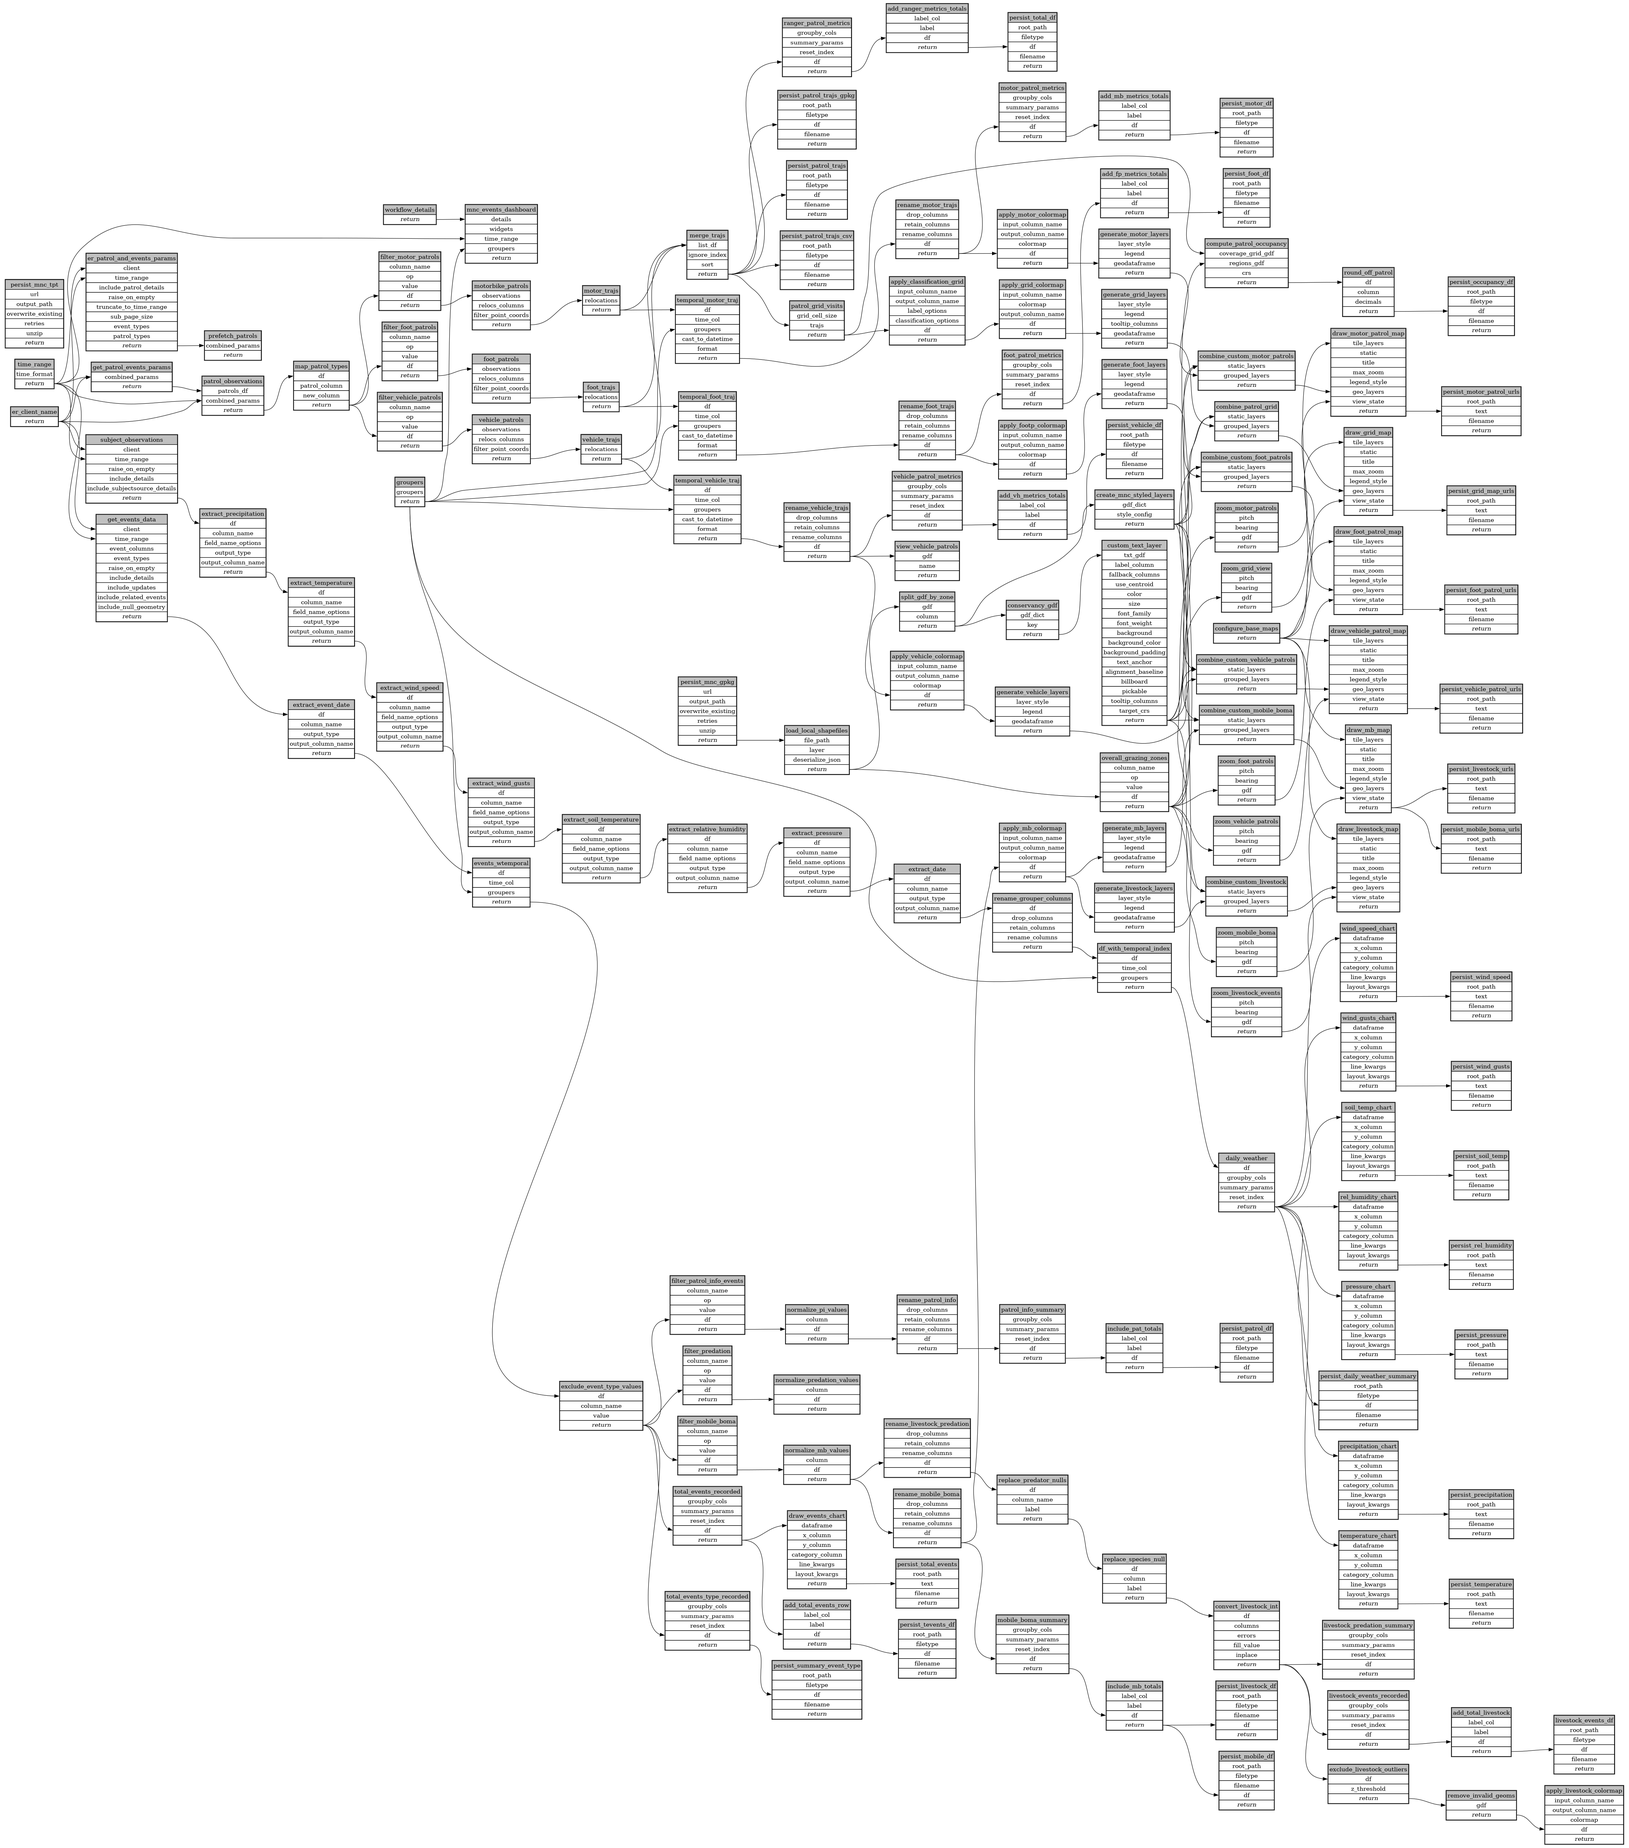
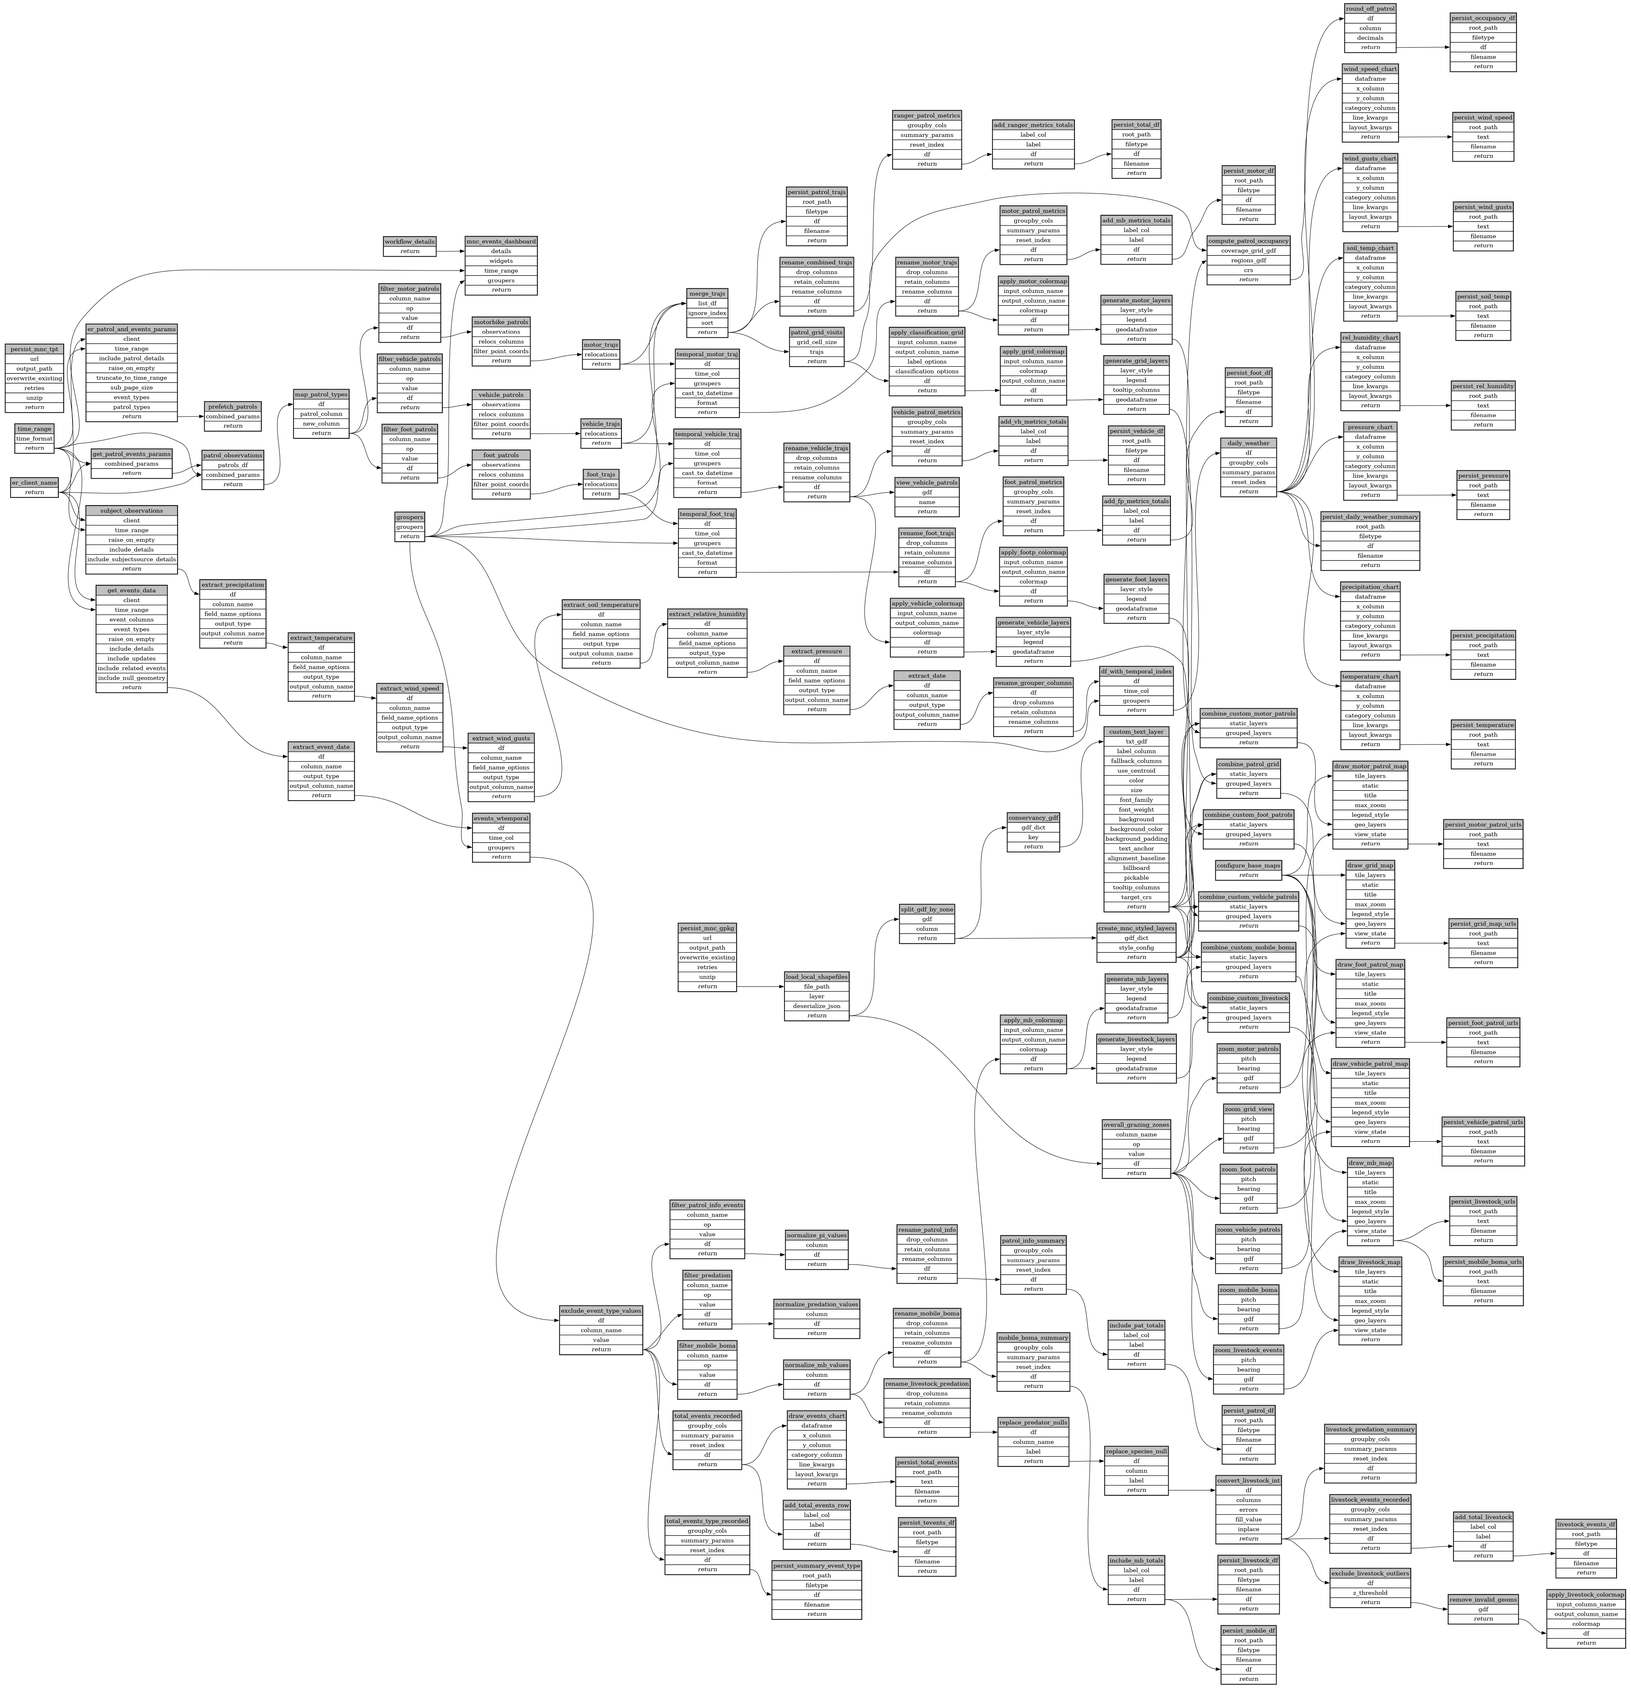
rename combined traj columns

diff --git a/workflows/mara_north_event_report/ecoscope-workflows-mara-north-event-report-workflow/ecoscope_workflows_mara_north_event_report_workflow/dags/run_async.py b/workflows/mara_north_event_report/ecoscope-workflows-mara-north-event-report-workflow/ecoscope_workflows_mara_north_event_report_workflow/dags/run_async.py
@@ -207,10 +207,9 @@ def main(params: Params):
         ],
         "persist_motor_patrol_urls": ["draw_motor_patrol_map"],
         "merge_trajs": ["foot_trajs", "vehicle_trajs", "motor_trajs"],
-        "persist_patrol_trajs_gpkg": ["merge_trajs"],
         "persist_patrol_trajs": ["merge_trajs"],
-        "persist_patrol_trajs_csv": ["merge_trajs"],
-        "ranger_patrol_metrics": ["merge_trajs"],
+        "rename_combined_trajs": ["merge_trajs"],
+        "ranger_patrol_metrics": ["rename_combined_trajs"],
         "add_ranger_metrics_totals": ["ranger_patrol_metrics"],
         "persist_total_df": ["add_ranger_metrics_totals"],
         "patrol_grid_visits": ["merge_trajs"],
@@ -2321,19 +2320,6 @@ def main(params: Params):
             | (params_dict.get("merge_trajs") or {}),
             method="call",
         ),
-        "persist_patrol_trajs_gpkg": Node(
-            async_task=persist_df.validate()
-            .handle_errors(task_instance_id="persist_patrol_trajs_gpkg")
-            .set_executor("lithops"),
-            partial={
-                "root_path": os.environ["ECOSCOPE_WORKFLOWS_RESULTS"],
-                "filetype": "gpkg",
-                "df": DependsOn("merge_trajs"),
-                "filename": "trajectories",
-            }
-            | (params_dict.get("persist_patrol_trajs_gpkg") or {}),
-            method="call",
-        ),
         "persist_patrol_trajs": Node(
             async_task=persist_df.validate()
             .handle_errors(task_instance_id="persist_patrol_trajs")
@@ -2347,17 +2333,28 @@ def main(params: Params):
             | (params_dict.get("persist_patrol_trajs") or {}),
             method="call",
         ),
-        "persist_patrol_trajs_csv": Node(
-            async_task=persist_df.validate()
-            .handle_errors(task_instance_id="persist_patrol_trajs_csv")
+        "rename_combined_trajs": Node(
+            async_task=map_columns.validate()
+            .handle_errors(task_instance_id="rename_combined_trajs")
             .set_executor("lithops"),
             partial={
-                "root_path": os.environ["ECOSCOPE_WORKFLOWS_RESULTS"],
-                "filetype": "csv",
+                "drop_columns": ["heading", "extra__created_at", "extra__id"],
+                "retain_columns": [],
+                "rename_columns": {
+                    "extra__patrol_start_time": "patrol_start_time",
+                    "extra__patrol_end_time": "patrol_end_time",
+                    "extra__patrol_id": "patrol_id",
+                    "extra__patrol_serial_number": "patrol_serial_number",
+                    "extra__patrol_status": "patrol_status",
+                    "extra__patrol_subject": "patrol_subject_name",
+                    "extra__patrol_title": "patrol_title",
+                    "extra__patrol_type": "patrol_type_id",
+                    "extra__patrol_type__value": "patrol_type_value",
+                    "extra__subject_id": "subject_id",
+                },
                 "df": DependsOn("merge_trajs"),
-                "filename": "trajectories",
             }
-            | (params_dict.get("persist_patrol_trajs_csv") or {}),
+            | (params_dict.get("rename_combined_trajs") or {}),
             method="call",
         ),
         "ranger_patrol_metrics": Node(
@@ -2388,7 +2385,7 @@ def main(params: Params):
                     },
                 ],
                 "reset_index": True,
-                "df": DependsOn("merge_trajs"),
+                "df": DependsOn("rename_combined_trajs"),
             }
             | (params_dict.get("ranger_patrol_metrics") or {}),
             method="call",

diff --git a/workflows/mara_north_event_report/ecoscope-workflows-mara-north-event-report-workflow/ecoscope_workflows_mara_north_event_report_workflow/dags/run_async_mock_io.py b/workflows/mara_north_event_report/ecoscope-workflows-mara-north-event-report-workflow/ecoscope_workflows_mara_north_event_report_workflow/dags/run_async_mock_io.py
@@ -253,10 +253,9 @@ def main(params: Params):
         ],
         "persist_motor_patrol_urls": ["draw_motor_patrol_map"],
         "merge_trajs": ["foot_trajs", "vehicle_trajs", "motor_trajs"],
-        "persist_patrol_trajs_gpkg": ["merge_trajs"],
         "persist_patrol_trajs": ["merge_trajs"],
-        "persist_patrol_trajs_csv": ["merge_trajs"],
-        "ranger_patrol_metrics": ["merge_trajs"],
+        "rename_combined_trajs": ["merge_trajs"],
+        "ranger_patrol_metrics": ["rename_combined_trajs"],
         "add_ranger_metrics_totals": ["ranger_patrol_metrics"],
         "persist_total_df": ["add_ranger_metrics_totals"],
         "patrol_grid_visits": ["merge_trajs"],
@@ -2367,19 +2366,6 @@ def main(params: Params):
             | (params_dict.get("merge_trajs") or {}),
             method="call",
         ),
-        "persist_patrol_trajs_gpkg": Node(
-            async_task=persist_df.validate()
-            .handle_errors(task_instance_id="persist_patrol_trajs_gpkg")
-            .set_executor("lithops"),
-            partial={
-                "root_path": os.environ["ECOSCOPE_WORKFLOWS_RESULTS"],
-                "filetype": "gpkg",
-                "df": DependsOn("merge_trajs"),
-                "filename": "trajectories",
-            }
-            | (params_dict.get("persist_patrol_trajs_gpkg") or {}),
-            method="call",
-        ),
         "persist_patrol_trajs": Node(
             async_task=persist_df.validate()
             .handle_errors(task_instance_id="persist_patrol_trajs")
@@ -2393,17 +2379,28 @@ def main(params: Params):
             | (params_dict.get("persist_patrol_trajs") or {}),
             method="call",
         ),
-        "persist_patrol_trajs_csv": Node(
-            async_task=persist_df.validate()
-            .handle_errors(task_instance_id="persist_patrol_trajs_csv")
+        "rename_combined_trajs": Node(
+            async_task=map_columns.validate()
+            .handle_errors(task_instance_id="rename_combined_trajs")
             .set_executor("lithops"),
             partial={
-                "root_path": os.environ["ECOSCOPE_WORKFLOWS_RESULTS"],
-                "filetype": "csv",
+                "drop_columns": ["heading", "extra__created_at", "extra__id"],
+                "retain_columns": [],
+                "rename_columns": {
+                    "extra__patrol_start_time": "patrol_start_time",
+                    "extra__patrol_end_time": "patrol_end_time",
+                    "extra__patrol_id": "patrol_id",
+                    "extra__patrol_serial_number": "patrol_serial_number",
+                    "extra__patrol_status": "patrol_status",
+                    "extra__patrol_subject": "patrol_subject_name",
+                    "extra__patrol_title": "patrol_title",
+                    "extra__patrol_type": "patrol_type_id",
+                    "extra__patrol_type__value": "patrol_type_value",
+                    "extra__subject_id": "subject_id",
+                },
                 "df": DependsOn("merge_trajs"),
-                "filename": "trajectories",
             }
-            | (params_dict.get("persist_patrol_trajs_csv") or {}),
+            | (params_dict.get("rename_combined_trajs") or {}),
             method="call",
         ),
         "ranger_patrol_metrics": Node(
@@ -2434,7 +2431,7 @@ def main(params: Params):
                     },
                 ],
                 "reset_index": True,
-                "df": DependsOn("merge_trajs"),
+                "df": DependsOn("rename_combined_trajs"),
             }
             | (params_dict.get("ranger_patrol_metrics") or {}),
             method="call",

diff --git a/workflows/mara_north_event_report/ecoscope-workflows-mara-north-event-report-workflow/ecoscope_workflows_mara_north_event_report_workflow/dags/run_sequential.py b/workflows/mara_north_event_report/ecoscope-workflows-mara-north-event-report-workflow/ecoscope_workflows_mara_north_event_report_workflow/dags/run_sequential.py
@@ -2069,19 +2069,6 @@ def main(params: Params):
         .call()
     )
 
-    persist_patrol_trajs_gpkg = (
-        persist_df.validate()
-        .handle_errors(task_instance_id="persist_patrol_trajs_gpkg")
-        .partial(
-            root_path=os.environ["ECOSCOPE_WORKFLOWS_RESULTS"],
-            filetype="gpkg",
-            df=merge_trajs,
-            filename="trajectories",
-            **(params_dict.get("persist_patrol_trajs_gpkg") or {}),
-        )
-        .call()
-    )
-
     persist_patrol_trajs = (
         persist_df.validate()
         .handle_errors(task_instance_id="persist_patrol_trajs")
@@ -2095,15 +2082,26 @@ def main(params: Params):
         .call()
     )
 
-    persist_patrol_trajs_csv = (
-        persist_df.validate()
-        .handle_errors(task_instance_id="persist_patrol_trajs_csv")
+    rename_combined_trajs = (
+        map_columns.validate()
+        .handle_errors(task_instance_id="rename_combined_trajs")
         .partial(
-            root_path=os.environ["ECOSCOPE_WORKFLOWS_RESULTS"],
-            filetype="csv",
+            drop_columns=["heading", "extra__created_at", "extra__id"],
+            retain_columns=[],
+            rename_columns={
+                "extra__patrol_start_time": "patrol_start_time",
+                "extra__patrol_end_time": "patrol_end_time",
+                "extra__patrol_id": "patrol_id",
+                "extra__patrol_serial_number": "patrol_serial_number",
+                "extra__patrol_status": "patrol_status",
+                "extra__patrol_subject": "patrol_subject_name",
+                "extra__patrol_title": "patrol_title",
+                "extra__patrol_type": "patrol_type_id",
+                "extra__patrol_type__value": "patrol_type_value",
+                "extra__subject_id": "subject_id",
+            },
             df=merge_trajs,
-            filename="trajectories",
-            **(params_dict.get("persist_patrol_trajs_csv") or {}),
+            **(params_dict.get("rename_combined_trajs") or {}),
         )
         .call()
     )
@@ -2135,7 +2133,7 @@ def main(params: Params):
                 },
             ],
             reset_index=True,
-            df=merge_trajs,
+            df=rename_combined_trajs,
             **(params_dict.get("ranger_patrol_metrics") or {}),
         )
         .call()

diff --git a/workflows/mara_north_event_report/ecoscope-workflows-mara-north-event-report-workflow/ecoscope_workflows_mara_north_event_report_workflow/dags/run_sequential_mock_io.py b/workflows/mara_north_event_report/ecoscope-workflows-mara-north-event-report-workflow/ecoscope_workflows_mara_north_event_report_workflow/dags/run_sequential_mock_io.py
@@ -2115,19 +2115,6 @@ def main(params: Params):
         .call()
     )
 
-    persist_patrol_trajs_gpkg = (
-        persist_df.validate()
-        .handle_errors(task_instance_id="persist_patrol_trajs_gpkg")
-        .partial(
-            root_path=os.environ["ECOSCOPE_WORKFLOWS_RESULTS"],
-            filetype="gpkg",
-            df=merge_trajs,
-            filename="trajectories",
-            **(params_dict.get("persist_patrol_trajs_gpkg") or {}),
-        )
-        .call()
-    )
-
     persist_patrol_trajs = (
         persist_df.validate()
         .handle_errors(task_instance_id="persist_patrol_trajs")
@@ -2141,15 +2128,26 @@ def main(params: Params):
         .call()
     )
 
-    persist_patrol_trajs_csv = (
-        persist_df.validate()
-        .handle_errors(task_instance_id="persist_patrol_trajs_csv")
+    rename_combined_trajs = (
+        map_columns.validate()
+        .handle_errors(task_instance_id="rename_combined_trajs")
         .partial(
-            root_path=os.environ["ECOSCOPE_WORKFLOWS_RESULTS"],
-            filetype="csv",
+            drop_columns=["heading", "extra__created_at", "extra__id"],
+            retain_columns=[],
+            rename_columns={
+                "extra__patrol_start_time": "patrol_start_time",
+                "extra__patrol_end_time": "patrol_end_time",
+                "extra__patrol_id": "patrol_id",
+                "extra__patrol_serial_number": "patrol_serial_number",
+                "extra__patrol_status": "patrol_status",
+                "extra__patrol_subject": "patrol_subject_name",
+                "extra__patrol_title": "patrol_title",
+                "extra__patrol_type": "patrol_type_id",
+                "extra__patrol_type__value": "patrol_type_value",
+                "extra__subject_id": "subject_id",
+            },
             df=merge_trajs,
-            filename="trajectories",
-            **(params_dict.get("persist_patrol_trajs_csv") or {}),
+            **(params_dict.get("rename_combined_trajs") or {}),
         )
         .call()
     )
@@ -2181,7 +2179,7 @@ def main(params: Params):
                 },
             ],
             reset_index=True,
-            df=merge_trajs,
+            df=rename_combined_trajs,
             **(params_dict.get("ranger_patrol_metrics") or {}),
         )
         .call()

diff --git a/workflows/mara_north_event_report/ecoscope-workflows-mara-north-event-report-workflow/ecoscope_workflows_mara_north_event_report_workflow/dags/jupytext.py b/workflows/mara_north_event_report/ecoscope-workflows-mara-north-event-report-workflow/ecoscope_workflows_mara_north_event_report_workflow/dags/jupytext.py
@@ -3411,31 +3411,6 @@ merge_trajs = (
 # %%
 # parameters
 
-persist_patrol_trajs_gpkg_params = dict()
-
-# %%
-# call the task
-
-
-persist_patrol_trajs_gpkg = (
-    persist_df.handle_errors(task_instance_id="persist_patrol_trajs_gpkg")
-    .partial(
-        root_path=os.environ["ECOSCOPE_WORKFLOWS_RESULTS"],
-        filetype="gpkg",
-        df=merge_trajs,
-        filename="trajectories",
-        **persist_patrol_trajs_gpkg_params,
-    )
-    .call()
-)
-
-
-# %% [markdown]
-# ## persist patrol trajs
-
-# %%
-# parameters
-
 persist_patrol_trajs_params = dict()
 
 # %%
@@ -3456,25 +3431,36 @@ persist_patrol_trajs = (
 
 
 # %% [markdown]
-# ## persist patrol trajs
+# ## Rename merged trajectory columns
 
 # %%
 # parameters
 
-persist_patrol_trajs_csv_params = dict()
+rename_combined_trajs_params = dict()
 
 # %%
 # call the task
 
 
-persist_patrol_trajs_csv = (
-    persist_df.handle_errors(task_instance_id="persist_patrol_trajs_csv")
+rename_combined_trajs = (
+    map_columns.handle_errors(task_instance_id="rename_combined_trajs")
     .partial(
-        root_path=os.environ["ECOSCOPE_WORKFLOWS_RESULTS"],
-        filetype="csv",
+        drop_columns=["heading", "extra__created_at", "extra__id"],
+        retain_columns=[],
+        rename_columns={
+            "extra__patrol_start_time": "patrol_start_time",
+            "extra__patrol_end_time": "patrol_end_time",
+            "extra__patrol_id": "patrol_id",
+            "extra__patrol_serial_number": "patrol_serial_number",
+            "extra__patrol_status": "patrol_status",
+            "extra__patrol_subject": "patrol_subject_name",
+            "extra__patrol_title": "patrol_title",
+            "extra__patrol_type": "patrol_type_id",
+            "extra__patrol_type__value": "patrol_type_value",
+            "extra__subject_id": "subject_id",
+        },
         df=merge_trajs,
-        filename="trajectories",
-        **persist_patrol_trajs_csv_params,
+        **rename_combined_trajs_params,
     )
     .call()
 )
@@ -3518,7 +3504,7 @@ ranger_patrol_metrics = (
             },
         ],
         reset_index=True,
-        df=merge_trajs,
+        df=rename_combined_trajs,
         **ranger_patrol_metrics_params,
     )
     .call()

diff --git a/workflows/mara_north_event_report/ecoscope-workflows-mara-north-event-report-workflow/README.md b/workflows/mara_north_event_report/ecoscope-workflows-mara-north-event-report-workflow/README.md
@@ -5,8 +5,8 @@
 
 ```yaml
 # fingerprint:
-artifacts_sha256_basic: 9a516cae705423ffa8bd2a229e000380a96f0d602d1200e65ff6ec39aed64d2a
-artifacts_sha256_strict: 5a94021e0e8138c0cc7dcdda4aff3e7bcdb54f21a5df987fc7ef2e11ea3293a8
+artifacts_sha256_basic: 8ac664fd95e906485387ccb0e5408f5a04458dd43d9e2cb1e1c76fc2f552751e
+artifacts_sha256_strict: 0cba474046b4d780f0efde6254329605f99a80b0c23466f686dee968d8d116bf
 installed_requirements:
 - channel: https://repo.prefix.dev/ecoscope-workflows/
   name: ecoscope-workflows-core
@@ -19,9 +19,9 @@ installed_requirements:
   version: {version: ==0.0.7}
 - channel: file:///tmp/ecoscope-workflows-custom/release/artifacts/
   name: ecoscope-workflows-ext-mnc
-  version: {version: ==10000.dev87+g7783a9a77.d20251121}
+  version: {version: ==10000.dev88+gd7e9af7.d20251121}
 params_sha256: d0c8e87bc9573be90a1b757256c751bb8412633d4f6176b215f0e60ecb6cb8c6
-spec_sha256: e3d9ff99c69f2d5c3a6779718c968bd71b6e023758c977d5b81e6488b0618e3c
+spec_sha256: 863aaa57db342e39db6d80d886696d7a5b3460ef9970ef98897862eeefc37cd6
 
 ```
 
